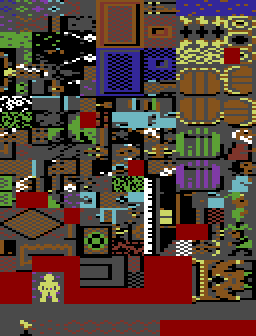
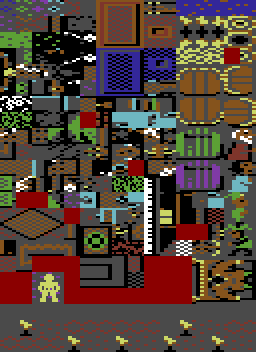
Fixes for Citadel 2.
git-svn-id: svn://192.168.0.200/Xle/trunk@157 8e2493a0-6f32-3e4d-a2e5-9abab0ebc7f0

diff --git a/Xle/TileSet.cs b/Xle/TileSet.cs
@@ -17,7 +17,19 @@ namespace ERY.Xle
 		}
 		public TileInfo this[int index]
 		{
-			get { return mTiles[index]; }
+			get
+			{
+				if (mTiles.ContainsKey(index) == false)
+				{
+					SoundMan.PlaySound(LotaSound.Bad);
+					g.AddBottom("Tileset does not contain " + index.ToString());
+
+					System.Diagnostics.Debug.Print("Tileset does not contain tile " + index.ToString());
+					return TileInfo.Normal;
+				}
+
+				return mTiles[index];
+			}
 			set
 			{
 				if (index > 5000) throw new ArgumentOutOfRangeException();

diff --git a/LegendOfBlacksilver/LobFactory.cs b/LegendOfBlacksilver/LobFactory.cs
@@ -40,8 +40,10 @@ namespace ERY.Xle.LoB
 		}
 		public override XleMapTypes.Extenders.ICastleExtender CreateMapExtender(XleMapTypes.Castle castle)
 		{
-			if (castle.MapName.ToLowerInvariant() == "citadel1")
+			if (castle.ExtenderName.ToLowerInvariant() == "citadel1")
 				return new CitadelGround();
+			if (castle.ExtenderName.ToLowerInvariant() == "citadel2")
+				return new CitadelUpper();
 
 			return base.CreateMapExtender(castle);
 		}

diff --git a/LegendOfBlacksilver/MapExtenders/CitadelUpper.cs b/LegendOfBlacksilver/MapExtenders/CitadelUpper.cs
@@ -7,14 +7,11 @@ using System.Threading.Tasks;
 
 namespace ERY.Xle.LoB.MapExtenders
 {
-	class CitadelGround : NullCastleExtender
+	class CitadelUpper  : NullCastleExtender
 	{
 		public override int GetOutsideTile(AgateLib.Geometry.Point playerPoint, int x, int y)
 		{
-			if (playerPoint.X >= 83 && playerPoint.Y >= 65)
-				return 33;
-			else
-				return 23;
+			return 71;
 		}
 	}
 }

diff --git a/Xle/XleMapTypes/Town.cs b/Xle/XleMapTypes/Town.cs
@@ -29,7 +29,9 @@ namespace ERY.Xle.XleMapTypes
 		#region --- Construction and Serialization ---
 
 		public Town()
-		{ }
+		{
+			mBaseExtender = new NullMap2DExtender();
+		}
 
 		protected override void WriteData(XleSerializationInfo info)
 		{
